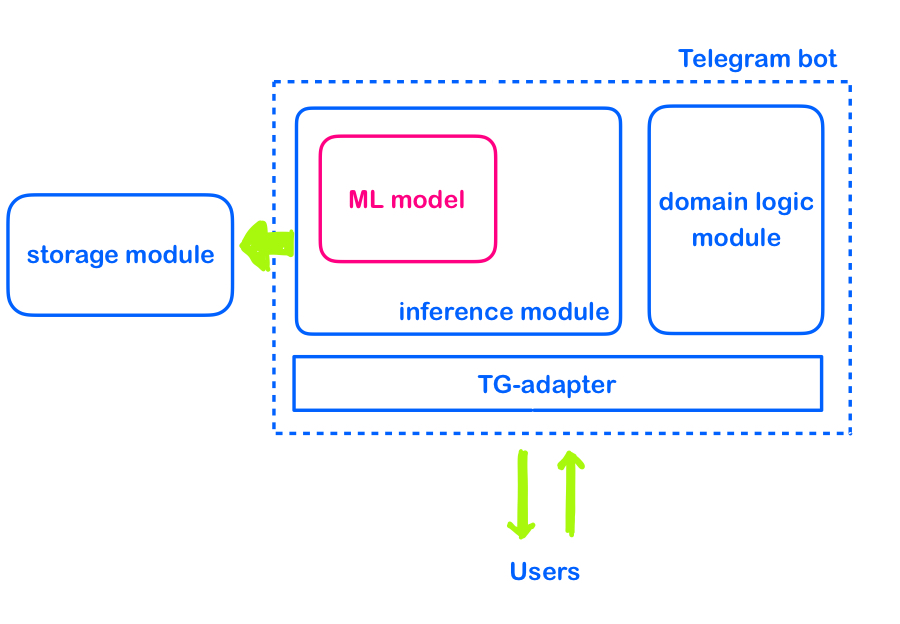
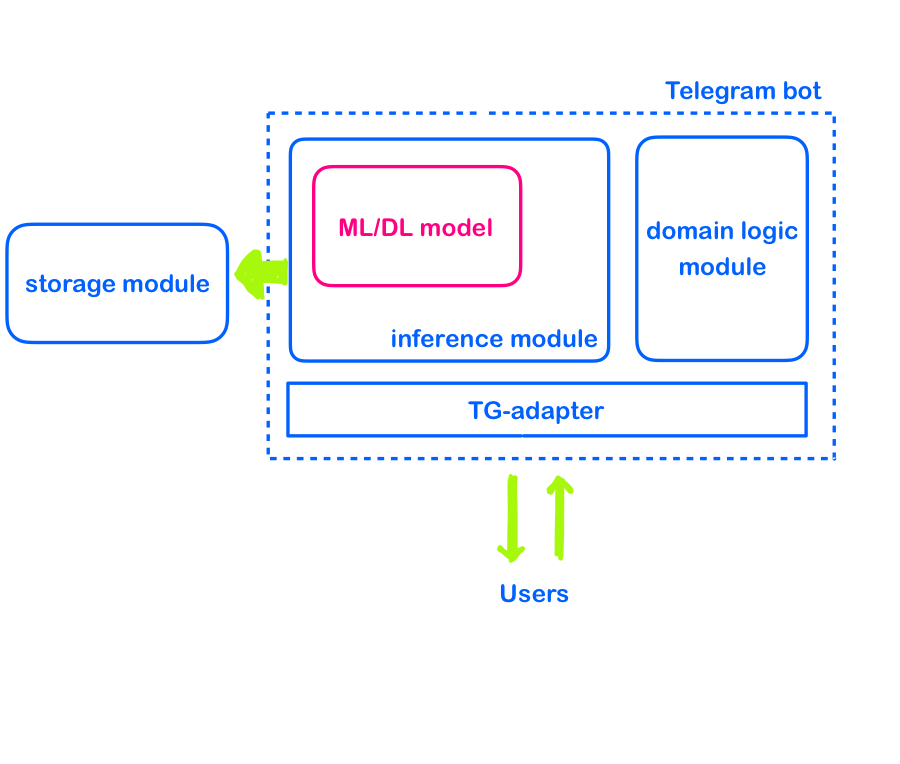
fix headers and scheme

Changed region(s): [[0.0, 0.0609, 0.9644, 0.9439]]

diff --git a/README.md b/README.md
@@ -7,6 +7,8 @@
 
 ## Годовой план
 
+**Задача:** Классификация токсичных комментариев (с определением типа токсичности: оскорбление, угроза, описание или угроза сексуального насилия)
+
 ### 📊 Описание данных:
 
 **📁 Источник данных:** [“Toxic Russian Comments”](https://www.kaggle.com/datasets/alexandersemiletov/toxic-russian-comments/data) на Kaggle  
@@ -22,8 +24,7 @@
 **⚖ Проблема:** Несбалансированные данные (82% комментариев - нетоксичные)
 
 
-
-**Разведочный анализ (EDA)**
+### Разведочный анализ (EDA)
 1. Проверить качество данных: проверить качество разметки, оценить наличие пропусков и дубликатов
 2. Проверить насколько сбалансированы классы в датасете
 3. Статистический анализ: 
@@ -73,7 +74,7 @@
 | 🔍 LSTM | 🟡 Средние | 🟡 Средняя | 🟢 Высокая |
 | 🚀 BERT | 🔴 Высокие | 🔴 Низкая | 🟢 Очень высокая |
 
-### Блок Сервис:
+### 🤖 Блок Сервис:
 
 Обученную модель планируется внедрить в тг-бот, который будет анализировать каждое сообщение в чате и срабатывать,
 если классифицирует его как токсичное.
@@ -89,4 +90,4 @@
 3. дообучение модели и оценка качества
 4. внедрение обновленной модели
 
-<img alt="TG bot block scheme" height="416" src="images/tgbot-block-scheme.png" width="600"/>
+<img alt="TG bot block scheme" height="509" src="images/tgbot-block-scheme.png" width="600"/>
